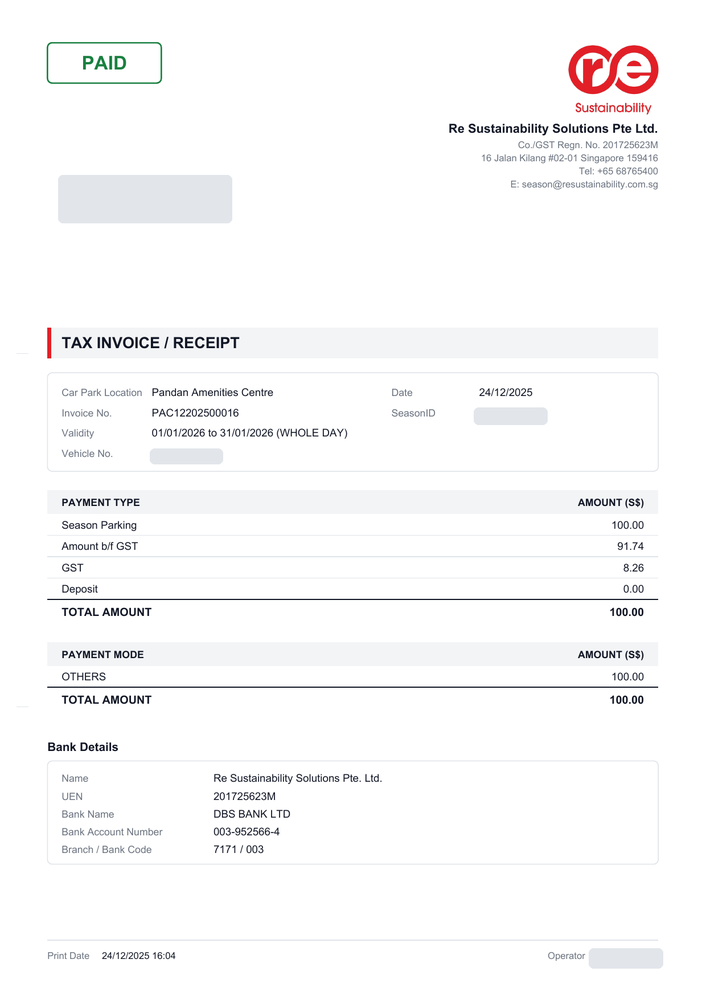
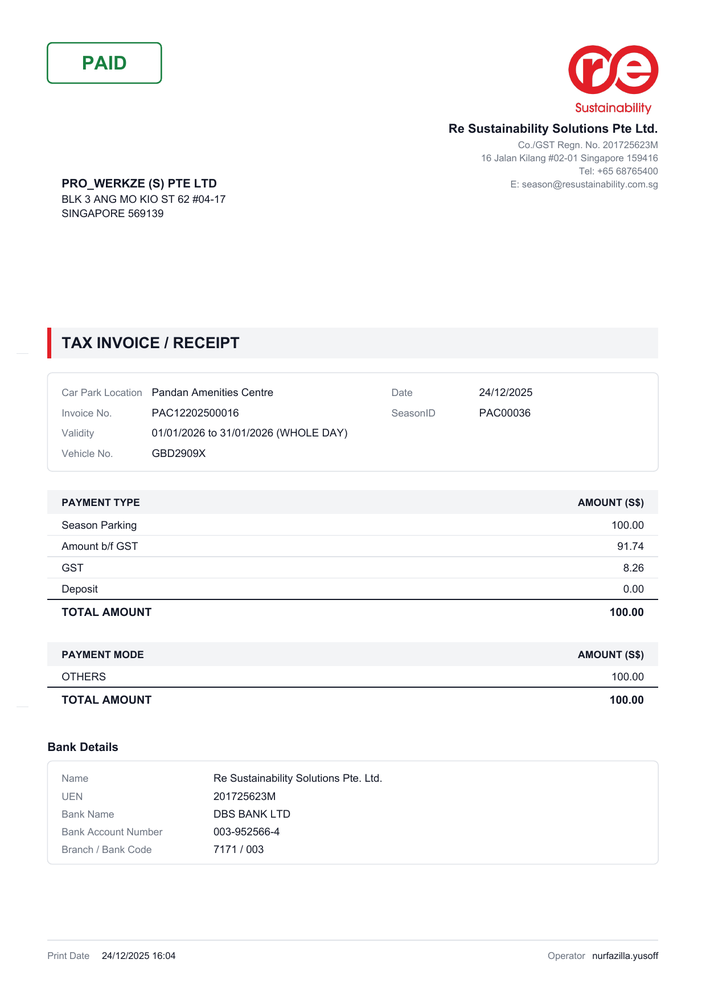
Drop the next-steps section and show the new invoices in full
The closing next-steps road repeated what the pages before it already
said, so the film now goes from Watch Dog straight to the thank-you
(238 s). The new portal's invoice and reminder are shown unmasked, as
the presenter asked; the audience is the company's own management.

diff --git a/films/2026-10-it-report/film.src.html b/films/2026-10-it-report/film.src.html
@@ -746,39 +746,7 @@ function sDog() {
   ctx.restore();
 }
 
-// ---- 7. the road ahead ------------------------------------------------------------------------------------
-const STEPS = [   // in the order the narration names them
-  ['This week', 'week', 'UAT from 12 Oct', 'then deploy phase 1'],
-  ['Ongoing', 'go', 'Payment gateway', 'DBS, now 80%'],
-  ['Ongoing', 'go', 'Finish season sync', 'now at 70%'],
-  ['Ongoing', 'go', 'Ehub rollout', 'Watch Dog, now 10%'],
-  ['Next', 'next', 'Switch to UltraVNC', 'on the OPCs'],
-  ['Next', 'next', 'Remove Carbon Black', 'at Ehub'],
-];
-function sNext() {
-  kicker('06 · Next steps');
-  heading('Next Steps');
-  const n = CUE.n.map(c => L(c, 'next')), GAPX = 440, X = i => 400 + i * GAPX, RY = 600;
-  let cam = X(0);                                             // the camera walks to each milestone as it is named
-  n.slice(1).forEach(at => { cam += GAPX * inOutCubic(prog(t, at - 0.5, at + 0.3)); });
-  const over = inOutCubic(prog(t, n[5] + 1.6, n[5] + 3.0));   // then pulls back to show the whole road
-  const z = lerp(1, 0.64, over), cx = lerp(cam, (X(0) + X(5)) / 2, over), sx = x => W / 2 + (x - cx) * z;
-  line(sx(X(0) - 600), RY, sx(X(5) + 600), RY, C.line, 6);
-  const reach = n.reduce((a, at, i) => (t >= at ? X(i) : a), X(0) - 600);
-  line(sx(X(0) - 600), RY, sx(reach), RY, C.amber, 6);
-  const ts = lerp(44, 30, over), as = lerp(32, 28, over), bs = lerp(30, 26, over), mw = lerp(400, 250, over);
-  STEPS.forEach(([tag, kind, a, b], i) => {                  // text stays in screen space so it never shrinks below 26 px
-    const at = n[i], s = spring(t - at, ...POP), x = sx(X(i)), r = lerp(26, 20, over) * s;
-    if (kind === 'go') dot(x, RY, r, C.sky);
-    else { dot(x, RY, r, kind === 'week' ? C.text : C.bg); ring(x, RY, r, C.amber, 5 * s); }
-    const tc = kind === 'go' ? C.sky : kind === 'next' ? C.amber : C.text;
-    rise(tag, x, RY - lerp(70, 50, over), fit(tag, ts, 800, mw), { w: 800, c: tc, align: 'center', at });
-    rise(a, x, RY + lerp(90, 74, over), fit(a, as, 600, mw), { w: 600, align: 'center', at: at + 0.15, gap: 0.03 });
-    rise(b, x, RY + lerp(136, 110, over), fit(b, bs, 500, mw), { w: 500, c: C.mute, align: 'center', at: at + 0.25, gap: 0.03 });
-  });
-}
-
-// ---- 8. thank you ------------------------------------------------------------------------------------------
+// ---- 7. thank you ------------------------------------------------------------------------------------------
 function sEnd() {
   const th = L(CUE.thanks, 'end'), s = spring(t + 0.3, 2.6, 0.75);
   if (s > 0) logoPlate(960, 330, s);
@@ -790,10 +758,10 @@ function sEnd() {
 const SCENES = [
   { t0: SC.title, draw: sTitle }, { t0: SC.status, draw: sStatus }, { t0: SC.wms, draw: sWmsJourney }, { t0: SC.wmsAug, draw: sWmsAug }, { t0: SC.wmsSep, draw: sWmsSep },
   { t0: SC.wmsCR, draw: sWmsCR }, { t0: SC.wmsTest, draw: sWmsTest }, { t0: SC.done, draw: sDone },
-  { t0: SC.portal, draw: sPortal }, { t0: SC.dog, draw: sDog }, { t0: SC.next, draw: sNext }, { t0: SC.end, draw: sEnd },
+  { t0: SC.portal, draw: sPortal }, { t0: SC.dog, draw: sDog }, { t0: SC.end, draw: sEnd },
 ];
 // one transition for every page: the amber diagonal wipe; the iris is kept for the end card
-const SEAMS = [...Array(10)].map(() => ({ type: 'wipe' })).concat([{ type: 'iris', at: [W / 2, 560] }]);
+const SEAMS = [...Array(9)].map(() => ({ type: 'wipe' })).concat([{ type: 'iris', at: [W / 2, 560] }]);
 const far = (x, y) => Math.hypot(Math.max(x, W - x), Math.max(y, H - y)) * 1.04;
 
 function drawScene(i, T) {

diff --git a/films/2026-10-it-report/music.py b/films/2026-10-it-report/music.py
@@ -35,7 +35,7 @@ LOOPS = {    # four bars per page, in the order the pages come
     "title": ["G", "D/F#", "Em", "C"], "status": ["G", "D/F#", "Em", "C"], "wms": ["C", "G", "Am", "D"],
     "wmsAug": ["G", "D/F#", "Em", "C"], "wmsSep": ["C", "G", "Am", "D"], "wmsCR": ["G", "Bm", "C", "D"], "wmsTest": ["Em", "C", "G", "D"],
     "done": ["G", "Bm", "C", "D"], "portal": ["Em", "C", "G", "D"], "dog": ["C", "G", "Am", "D"],
-    "next": ["C", "D", "Bm", "Em"], "end": ["D", "G", "G", "G"],
+    "end": ["D", "G", "G", "G"],
 }
 ORDER = sorted(SC, key=SC.get)
 
@@ -80,7 +80,7 @@ for b in range(bars):
     if s != "title":
         for p in up:
             note(t0, STRINGS, p, 46 * soft, BAR * 0.98, human=False)
-        if s in ("next", "dog"):
+        if s == "dog":
             note(t0, BASS, pitch(root) - 12, 58 * soft, 1.6)
 
 # page turns: a rolled chord on the downbeat
@@ -135,8 +135,6 @@ sparkle(CUE["rebrand"] - 1.0, GLOCK, n=2, vel=58, octave=2)      # the invoice b
 sparkle(CUE["docs"], CELESTA, n=3, vel=58)                      # the new invoice and reminder
 for key in ("vnc", "cb"):
     sparkle(CUE[key], CELESTA, vel=58)
-for at in CUE["n"]:
-    sparkle(at, CELESTA, vel=54)
 
 # ---- the end: the page turns on D, "Thank you" lands on G, and the chord rings -----------------------------
 f = end_final

diff --git a/films/2026-10-it-report/plan.py b/films/2026-10-it-report/plan.py
@@ -77,17 +77,10 @@ dog = bar(e + 0.7)
 s, e, ph = say("dog1", dog + 0.5);         cue["ssg"], cue["ehub"] = s, beat(phrase(ph, 1, 0.56))
 s, e, ph = say("dog2", e + GAP);           cue["vnc"] = s
 s, e, ph = say("dog3", e + GAP);           cue["cb"] = s
-# 7. next steps
-nxt = bar(e + 0.7)
-s, e, ph = say("next1", nxt + 0.5)
-# "start user testing…" "finish the payment gateway" "and season sync" "and continue the Ehub rollout"
-cue["n"] = [beat(phrase(ph, 1, 0.09)), beat(phrase(ph, 3, 0.5)), beat(phrase(ph, 4, 0.65)), beat(phrase(ph, 5, 0.79))]
-s, e, ph = say("next2", e + GAP)
-cue["n"] += [beat(phrase(ph, 1, 0.14)), beat(phrase(ph, 2, 0.35))]
-# 8. thank you
+# 7. thank you
 end = bar(e + 1.0)
 s, e, ph = say("end", end + 0.75);         cue["thanks"] = s
 cue["final"] = s
 
-P.write({"title": 0, "status": status, "wms": wms, "wmsAug": wmsAug, "wmsSep": wmsSep, "wmsCR": wmsCR, "wmsTest": wmsTest, "done": done, "portal": portal, "dog": dog, "next": nxt, "end": end},
+P.write({"title": 0, "status": status, "wms": wms, "wmsAug": wmsAug, "wmsSep": wmsSep, "wmsCR": wmsCR, "wmsTest": wmsTest, "done": done, "portal": portal, "dog": dog, "end": end},
         bar(cue["final"] + 4.0))
